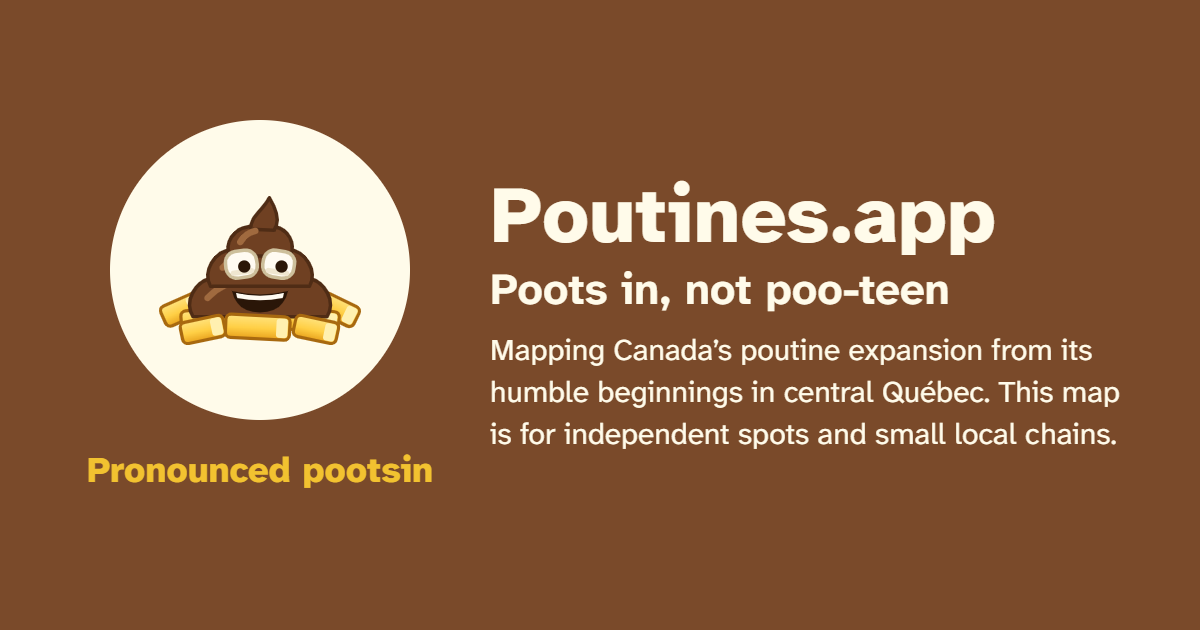
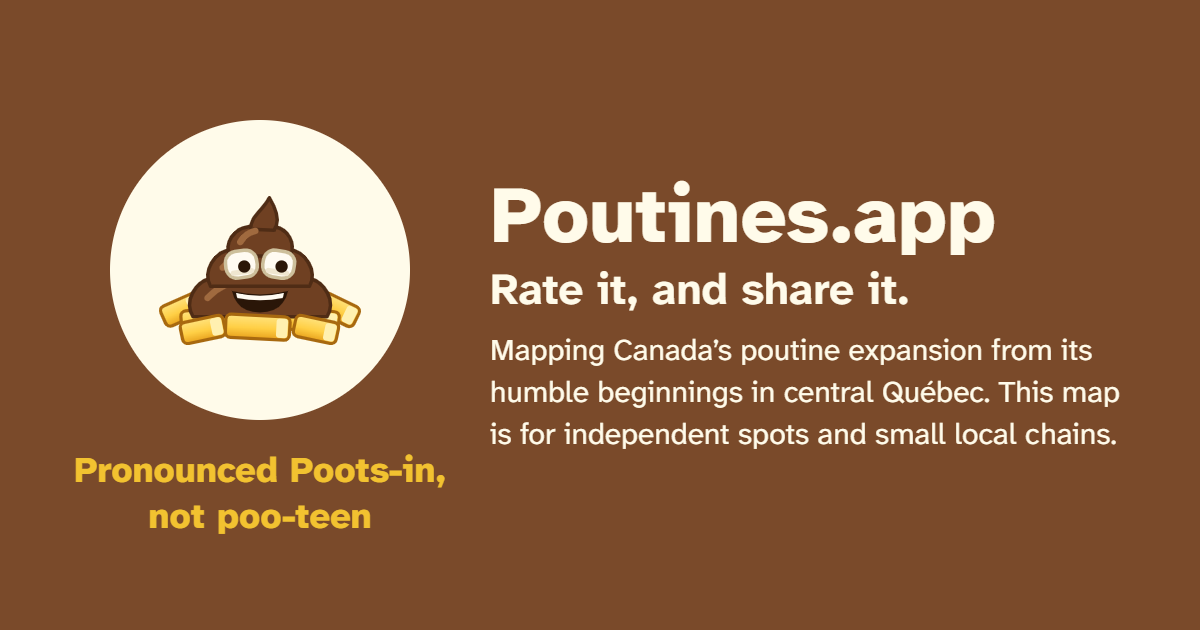
English preview picture: "Rate it, and share it." and "Pronounced Poots-in, not poo-teen"
The picture gets its own strapline under Poutines.app and its caption under
the poop; the welcome box keeps its own. share-en.png redrawn, at ?v=5.

Changed region(s): [[0.0617, 0.7238, 0.37, 0.8444], [0.4008, 0.4222, 0.8017, 0.5127]]

diff --git a/src/ui/storyPicture.ts b/src/ui/storyPicture.ts
@@ -303,12 +303,12 @@ export async function storyPicture(
  * The picture link previews show, one per language (Alex, 2026-10-20: "Have one picture for french,
  * one for english"; in English "it reads what i wrote"): public/share.png in French, share-en.png in
  * English, 1200 × 630. The poutine poop of bowl 1 on a cream disc, in English with `previewCaption`
- * under it; beside it the language's welcome: its title, its strapline (the app's name in French),
- * its words. Made once in a browser.
+ * under it ("Pronounced Poots-in, not poo-teen"); beside it the welcome's title, `previewStrap` ("Rate
+ * it, and share it."; the app's name in French) and the welcome's words. Made once in a browser.
  */
 export async function linkPreview(strings: Strings): Promise<Blob> {
   const title = strings.welcome.title || SITE_NAME.charAt(0).toUpperCase() + SITE_NAME.slice(1);
-  const strap = strings.welcome.strap || strings.appName;
+  const strap = strings.previewStrap || strings.appName;
   const caption = strings.previewCaption;
   await ready([title, strap, strings.welcome.text, caption]);
   const context = canvasOf(1200, 630);

diff --git a/src/ui/strings.ts b/src/ui/strings.ts
@@ -17,6 +17,8 @@ export interface Strings {
   pronounced: string;
   /** What the site is: in link previews and on the story picture. */
   tagline: string;
+  /** Under "Poutines.app" on the link preview picture; the app's name where empty (French). */
+  previewStrap: string;
   /** Under the poop on the link preview picture (English only: public/share-en.png). */
   previewCaption: string;
   /**
@@ -248,7 +250,8 @@ const english: Strings = {
   language: 'en',
   appName: 'Poutine',
   pronounced: 'pronounced Pootsin',
-  previewCaption: 'Pronounced pootsin',
+  previewStrap: 'Rate it, and share it.',
+  previewCaption: 'Pronounced Poots-in, not poo-teen',
   preview: {
     kinds: {
       'casse-croute': 'Casse-croûte',
@@ -476,6 +479,7 @@ const french: Strings = {
   language: 'fr',
   appName: 'Poutine',
   pronounced: '',
+  previewStrap: '',
   previewCaption: '',
   preview: {
     kinds: {

diff --git a/src/domain/links.ts b/src/domain/links.ts
@@ -57,11 +57,12 @@ const FRIEND_CODE = /^[A-Za-z0-9_-]{8}$/;
 
 /**
  * The pictures link previews show, one per language with its own words (`linkPreview`; English
- * with "Pronounced pootsin" under the poop). Raise `?v=` when one is redrawn, so apps fetch it again.
+ * with "Pronounced Poots-in, not poo-teen" under the poop). Raise `?v=` when one is redrawn, so apps
+ * fetch it again.
  */
 export const PREVIEW_PICTURE = {
   fr: `${SITE}/share.png?v=3`,
-  en: `${SITE}/share-en.png?v=4`,
+  en: `${SITE}/share-en.png?v=5`,
 } as const;
 
 /**

diff --git a/tests/unit/links.test.ts b/tests/unit/links.test.ts
@@ -223,6 +223,6 @@ describe('links shared from an English phone', () => {
     expect(friendFromSearch('?s=4&c=x7Kq2m-_&en')).toEqual({ stars: 4, code: 'x7Kq2m-_' });
     expect(isEnglishLink('')).toBe(false);
     expect(isEnglishLink('?s=4&c=x7Kq2m-_')).toBe(false);
-    expect(PREVIEW_PICTURE.en).toBe('https://poutines.app/share-en.png?v=4');
+    expect(PREVIEW_PICTURE.en).toBe('https://poutines.app/share-en.png?v=5');
   });
 });
